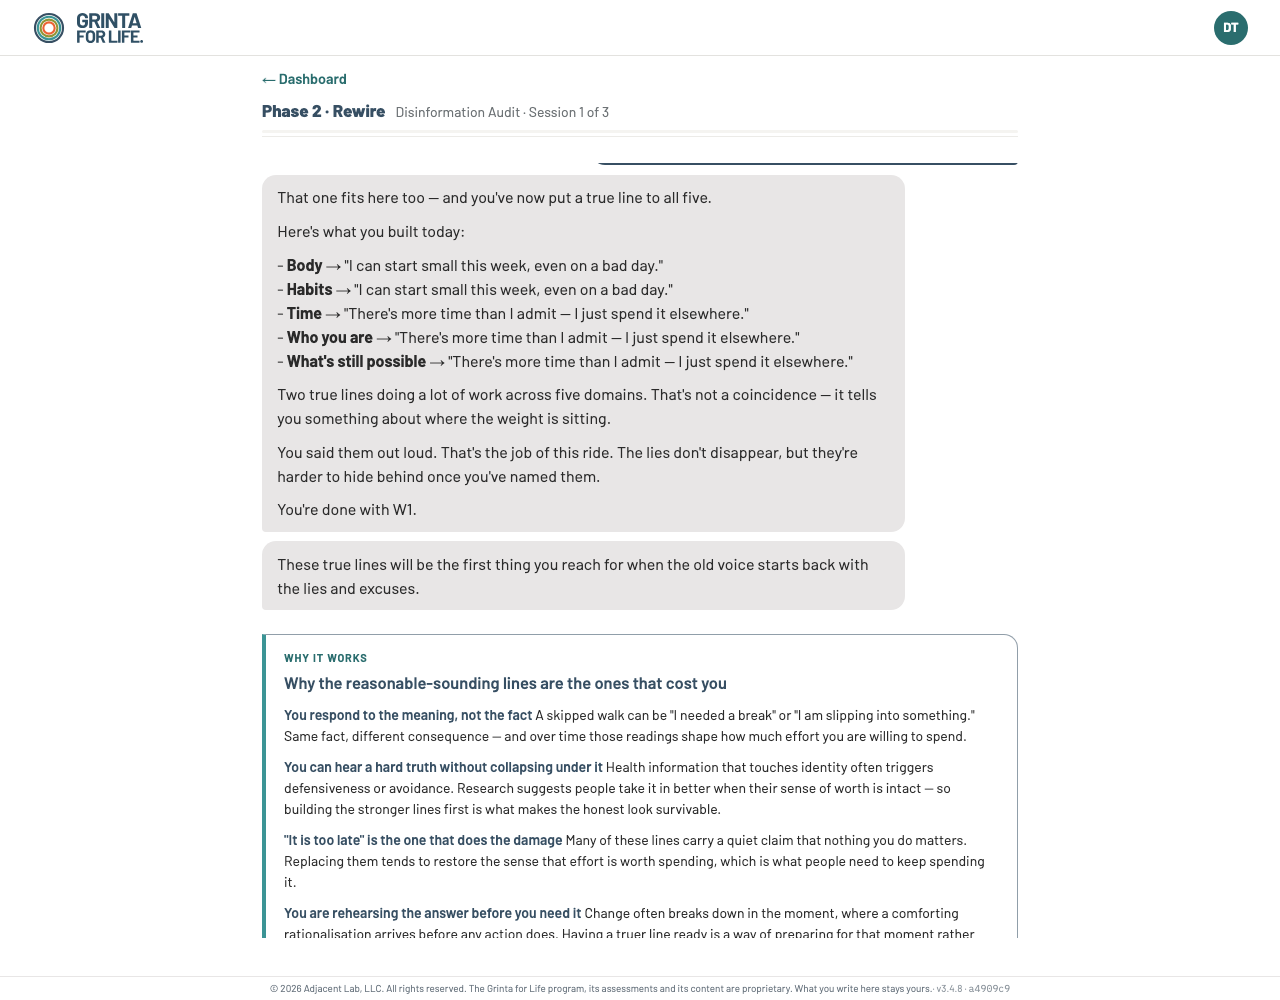
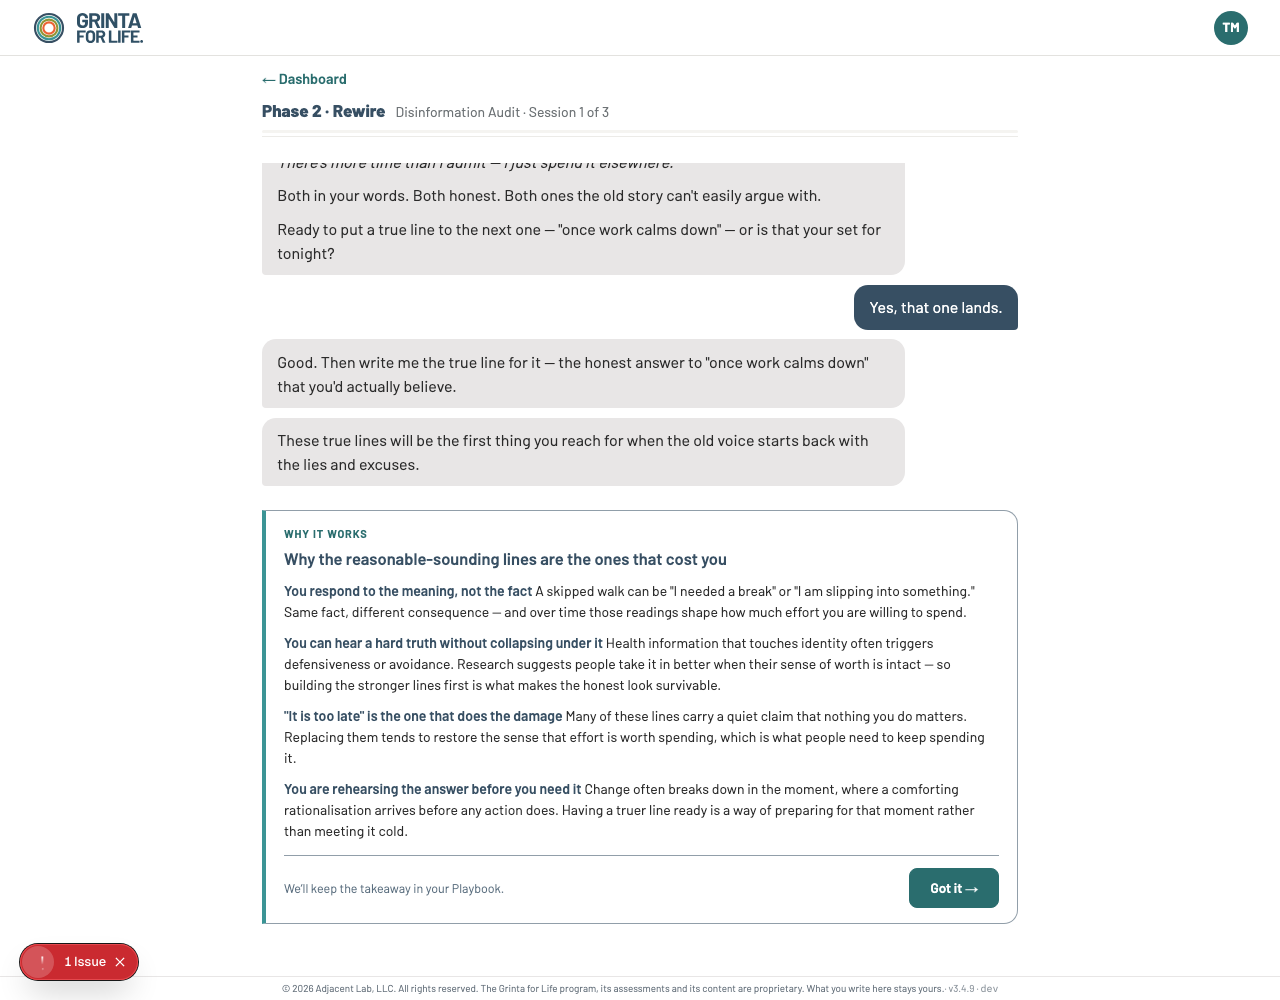
Donna: the dead "Clip in" button, and Reconnect's scrambled thread order
TWO FAULTS, ONE OF THEM MINE FROM YESTERDAY.

THE DEAD BUTTON. "Why this matters" carried "Clip in →", which scrolled the thread to the
bottom — where a fresh Session already is, so tapping it did nothing visible. A control that
does nothing makes the member doubt the page rather than the button. It also had nothing to
clip in TO: the card opens the Session with the first question directly beneath it. Removed
from the component, so all four arcs lose it at once.

THE ORDERING, which is the one that made Sessions hard to use. RECONNECT ONLY, which is why
the W1 walk passed clean while Donna's thread was chaos: it is the single arc that
accumulates several Understand cards across one conversation, and they were rendered AFTER
messages.map(). So a card earned when R1 closed sat below every later message; new turns
painted above it; and on an administered turn the question sat above the card while the chips
answering it sat below. Her words: "questions appear above the field meant to answer them."

Each card is now placed after the message that was last on screen when its beat closed.
`cardAt` records that the first time an asset becomes taught and never reassigns it — the
card's CONTENT is derived from the stage, but its POSITION is a fact about when it arrived,
and only the component watching the conversation can observe it. A card must not drift up the
thread because the conversation grew underneath it.
[…]

Changed region(s): [[0.1875, 0.155, 0.8125, 0.992], [0.0, 0.93, 0.125, 0.992]]

diff --git a/app/reconnect/reconnect-chat.tsx b/app/reconnect/reconnect-chat.tsx
@@ -1,6 +1,6 @@
 'use client';
 
-import { useEffect, useRef, useState } from 'react';
+import { Fragment, useEffect, useRef, useState } from 'react';
 import RichText from '../rich-text.tsx';
 import { startReconnectAction, reconnectTurnAction, reconnectCeremonyDataAction, loadReconnectSessionAction } from './actions.ts';
 import ScaleChips from '../components/scale-chips.tsx';
@@ -52,6 +52,20 @@ export default function ReconnectChat({
   useEffect(() => { onStage?.(state?.stage ?? null); }, [state?.stage, onStage]);
   const started = useRef(false);
   const chatRef = useChatAutoscroll([messages.length, pending, expects]);
+
+  // WHERE each Understand card was earned — the message count at the moment its asset first became taught. The
+  // card's CONTENT is derived from the stage, but its POSITION is a fact about when it arrived that only this
+  // component can observe, so it is recorded rather than recomputed. Never reassigned once set: a card must not
+  // drift up the thread because the conversation grew underneath it.
+  const taught = reconnectTaughtSoFar(state?.stage);
+  const [cardAt, setCardAt] = useState<Record<string, number>>({});
+  useEffect(() => {
+    const missing = taught.filter((a) => cardAt[a] === undefined);
+    if (missing.length) {
+      setCardAt((prev) => ({ ...prev, ...Object.fromEntries(missing.map((a) => [a, messages.length])) }));
+    }
+    // eslint-disable-next-line react-hooks/exhaustive-deps
+  }, [taught.join(','), messages.length]);
 
   useEffect(() => {
     if (started.current) return;
@@ -137,20 +151,39 @@ export default function ReconnectChat({
       )}
       <div className="chat" ref={chatRef}>
         {/* ① The frame — Reconnect's is the PHASE summary, because the arc spans three assets rather than one. */}
-        <TeachingFrame sessionKey="reconnect" onClipIn={() => chatRef.current?.scrollTo({ top: chatRef.current.scrollHeight, behavior: 'smooth' })} />
-        {messages.map((m, i) => (
-          <div key={i} className={`bubble ${m.role}`}>
-            {m.role === 'agent' ? <RichText text={m.text} /> : m.text}
-          </div>
-        ))}
-        {pending && <div className="typing">Thinking…</div>}
-        {/* ③ Understand — ONE card per asset, at the beat that closes it, and they stay as the arc moves on.
+        <TeachingFrame sessionKey="reconnect" />
+        {/* ③ Understand — ONE card per asset, INTERLEAVED where it was earned.
+
+            THIS USED TO RENDER AFTER EVERY MESSAGE and it scrambled the thread (Donna, 2026-08-17). Reconnect is
+            the only arc that accumulates several of these across one conversation, so it was the only one that
+            showed the fault: a card earned when R1 closed sat below every later message, new turns painted ABOVE
+            it, and on an administered turn the question sat above the card while the chips answering it sat
+            below. Her words: "questions appear above the field meant to answer them."
+
+            Each card is now placed after the message that was last on screen when its beat closed, so the thread
+            reads in the order it happened. `cardAt` is captured the first time an asset appears in
+            reconnectTaughtSoFar — the render is derived, the POSITION is a fact about when it arrived, and only
+            the component watching the conversation can know it.
+
             NOTHING IS GATED HERE. The other three arcs hold the hand-home until the member acknowledges; Reconnect
-            has no hand-home (it flows into the ceremony) and, more to the point, it carries the live capture loop.
-            A required tap mid-arc would interrupt the one conversation we have standing orders not to disturb. */}
-        {reconnectTaughtSoFar(state?.stage).map((a) => (
+            has no hand-home (it flows into the ceremony) and it carries the live capture loop, so a required tap
+            mid-arc would interrupt the one conversation we have standing orders not to disturb. */}
+        {messages.map((m, i) => (
+          <Fragment key={i}>
+            <div className={`bubble ${m.role}`}>
+              {m.role === 'agent' ? <RichText text={m.text} /> : m.text}
+            </div>
+            {taught.filter((a) => cardAt[a] === i + 1).map((a) => (
+              <TeachingUnderstand key={a} sessionKey="reconnect" stage={LAST_BEAT[a]} onAcknowledge={() => {}} />
+            ))}
+          </Fragment>
+        ))}
+        {/* Anything earned before the first message of a RESUMED thread — the position was not observed, so it
+            leads rather than being invented into the middle of a conversation it predates. */}
+        {taught.filter((a) => (cardAt[a] ?? 0) > messages.length).map((a) => (
           <TeachingUnderstand key={a} sessionKey="reconnect" stage={LAST_BEAT[a]} onAcknowledge={() => {}} />
         ))}
+        {pending && <div className="typing">Thinking…</div>}
         {/* W-32 chips scroll WITH the thread (Jay's walk: not pinned to the bottom) — they answer the question above, autosend. */}
         {expects?.kind === 'scale' && <ScaleChips expects={expects} disabled={pending || !state} onPick={(n) => void submit(String(n))} />}
       </div>

diff --git a/app/workspace/teaching-cards.tsx b/app/workspace/teaching-cards.tsx
@@ -28,8 +28,18 @@ import type { SessionKey } from '../../lib/workspace/session-key.ts';
 // The Cowork mockups render the Session dark with cream cards; our workspace is light, so the contrast device is
 // ours, not theirs (their file is IA only — Jay, 2026-08-16).
 
-/** ① The frame. Full summary, then one tap into the work. Renders as the first thing in the thread. */
-export function TeachingFrame({ sessionKey, onClipIn }: { sessionKey: SessionKey; onClipIn: () => void }) {
+/**
+ * ① The frame. The full summary, and NOTHING ELSE — no button.
+ *
+ * IT USED TO CARRY "Clip in →" AND THAT WAS A DEAD CONTROL (Donna, 2026-08-17): it scrolled the thread to the
+ * bottom, which on a fresh Session is where you already are, so tapping it did nothing visible. A button that
+ * does nothing is worse than no button — it makes the member doubt the page rather than the button.
+ *
+ * The deeper reason it should not exist: the Session opens with this card and the Companion's first question
+ * directly beneath it. There is nothing to "clip in" TO — the work has already started. The word belongs on the
+ * onboarding language screen, where it is defined, and on the button that actually begins something.
+ */
+export function TeachingFrame({ sessionKey }: { sessionKey: SessionKey }) {
   const { frame } = teachingFor(sessionKey);
   if (!frame) return null; // gates (checkpoints, b4/c4) teach nothing
 
@@ -37,11 +47,6 @@ export function TeachingFrame({ sessionKey, onClipIn }: { sessionKey: SessionKey
     <section className="teach-card teach-frame" aria-label="Why this matters">
       <p className="teach-eyebrow">Why this matters</p>
       <p className="teach-body">{frame.full}</p>
-      <div className="teach-foot">
-        <button type="button" className="teach-cta" onClick={onClipIn}>
-          Clip in →
-        </button>
-      </div>
     </section>
   );
 }

diff --git a/scripts/teaching-layer-walk.ts b/scripts/teaching-layer-walk.ts
@@ -152,9 +152,13 @@ async function main(): Promise<void> {
   if (/why this matters/i.test(eyebrow)) ok(`the eyebrow names the card ("${eyebrow}")`);
   else bad(`unexpected eyebrow: "${eyebrow}"`);
 
-  const cta = (await page.locator('.teach-frame .teach-cta').innerText()).trim();
-  if (/clip in/i.test(cta)) ok(`the CTA is the established term ("${cta}")`);
-  else bad(`unexpected CTA: "${cta}"`);
+  // THE FRAME HAS NO BUTTON, and this asserts the absence (Donna, 2026-08-17). It used to carry "Clip in →",
+  // which scrolled the thread to the bottom — where a fresh Session already is, so the tap did nothing visible.
+  // A control that does nothing makes the member doubt the page rather than the button. There is also nothing to
+  // clip in TO here: the card opens the Session with the first question directly beneath it.
+  const frameButtons = await page.locator('.teach-frame button').count();
+  if (frameButtons === 0) ok('the frame carries NO button — the dead "Clip in →" is gone');
+  else bad(`the frame still has ${frameButtons} button(s); it should have none`);
 
   await page.screenshot({ path: `docs/screenshots/teaching-frame-${SESSION}.png`, fullPage: false });
   ok(`screenshot → teaching-frame-${SESSION}.png`);

diff --git a/app/rewire/rewire-chat.tsx b/app/rewire/rewire-chat.tsx
@@ -127,7 +127,7 @@ export default function RewireChat({ memberId, session = 'w1' }: { memberId: str
         {/* ① THE FRAME — inside the thread, never above it. `.chat` is the scroller (globals.css:2090), so this is
             what lets the full summary show and then scroll away. Hoisting it to the workspace body would pin it and
             re-create the squeeze Jennifer hit on 7/27. See teaching-cards.tsx. */}
-        <TeachingFrame sessionKey={sessionKey} onClipIn={() => chatRef.current?.scrollTo({ top: chatRef.current.scrollHeight, behavior: 'smooth' })} />
+        <TeachingFrame sessionKey={sessionKey} />
         {messages.map((m, i) => (
           <div key={i} className={`bubble ${m.role}`}>
             {m.role === 'agent' ? <RichText text={m.text} /> : m.text}

diff --git a/app/rebuild/rebuild-chat.tsx b/app/rebuild/rebuild-chat.tsx
@@ -124,7 +124,7 @@ export default function RebuildChat({ memberId, session = 'b1' }: { memberId: st
     <div className="reconnect-chat">
       <div className="chat" ref={chatRef}>
         {/* ① Frame — INSIDE the thread; `.chat` is the scroller, so hoisting this pins it. See teaching-cards.tsx. */}
-        <TeachingFrame sessionKey={sessionKey} onClipIn={() => chatRef.current?.scrollTo({ top: chatRef.current.scrollHeight, behavior: 'smooth' })} />
+        <TeachingFrame sessionKey={sessionKey} />
         {messages.map((m, i) => (
           <div key={i} className={`bubble ${m.role}`}>
             {/* Agent text goes through RichText — it emits light markdown (**bold**, blank lines between beats) and a

diff --git a/app/reclaim/reclaim-chat.tsx b/app/reclaim/reclaim-chat.tsx
@@ -122,7 +122,7 @@ export default function ReclaimChat({ memberId, session = 'c1' }: { memberId: st
     <div className="reconnect-chat">
       <div className="chat" ref={chatRef}>
         {/* ① Frame — INSIDE the thread; `.chat` is the scroller, so hoisting this pins it. See teaching-cards.tsx. */}
-        <TeachingFrame sessionKey={sessionKey} onClipIn={() => chatRef.current?.scrollTo({ top: chatRef.current.scrollHeight, behavior: 'smooth' })} />
+        <TeachingFrame sessionKey={sessionKey} />
         {messages.map((m, i) => (
           <div key={i} className={`bubble ${m.role}`}>
             {/* Agent text goes through RichText — it emits light markdown (**bold**, blank lines between beats) and a
